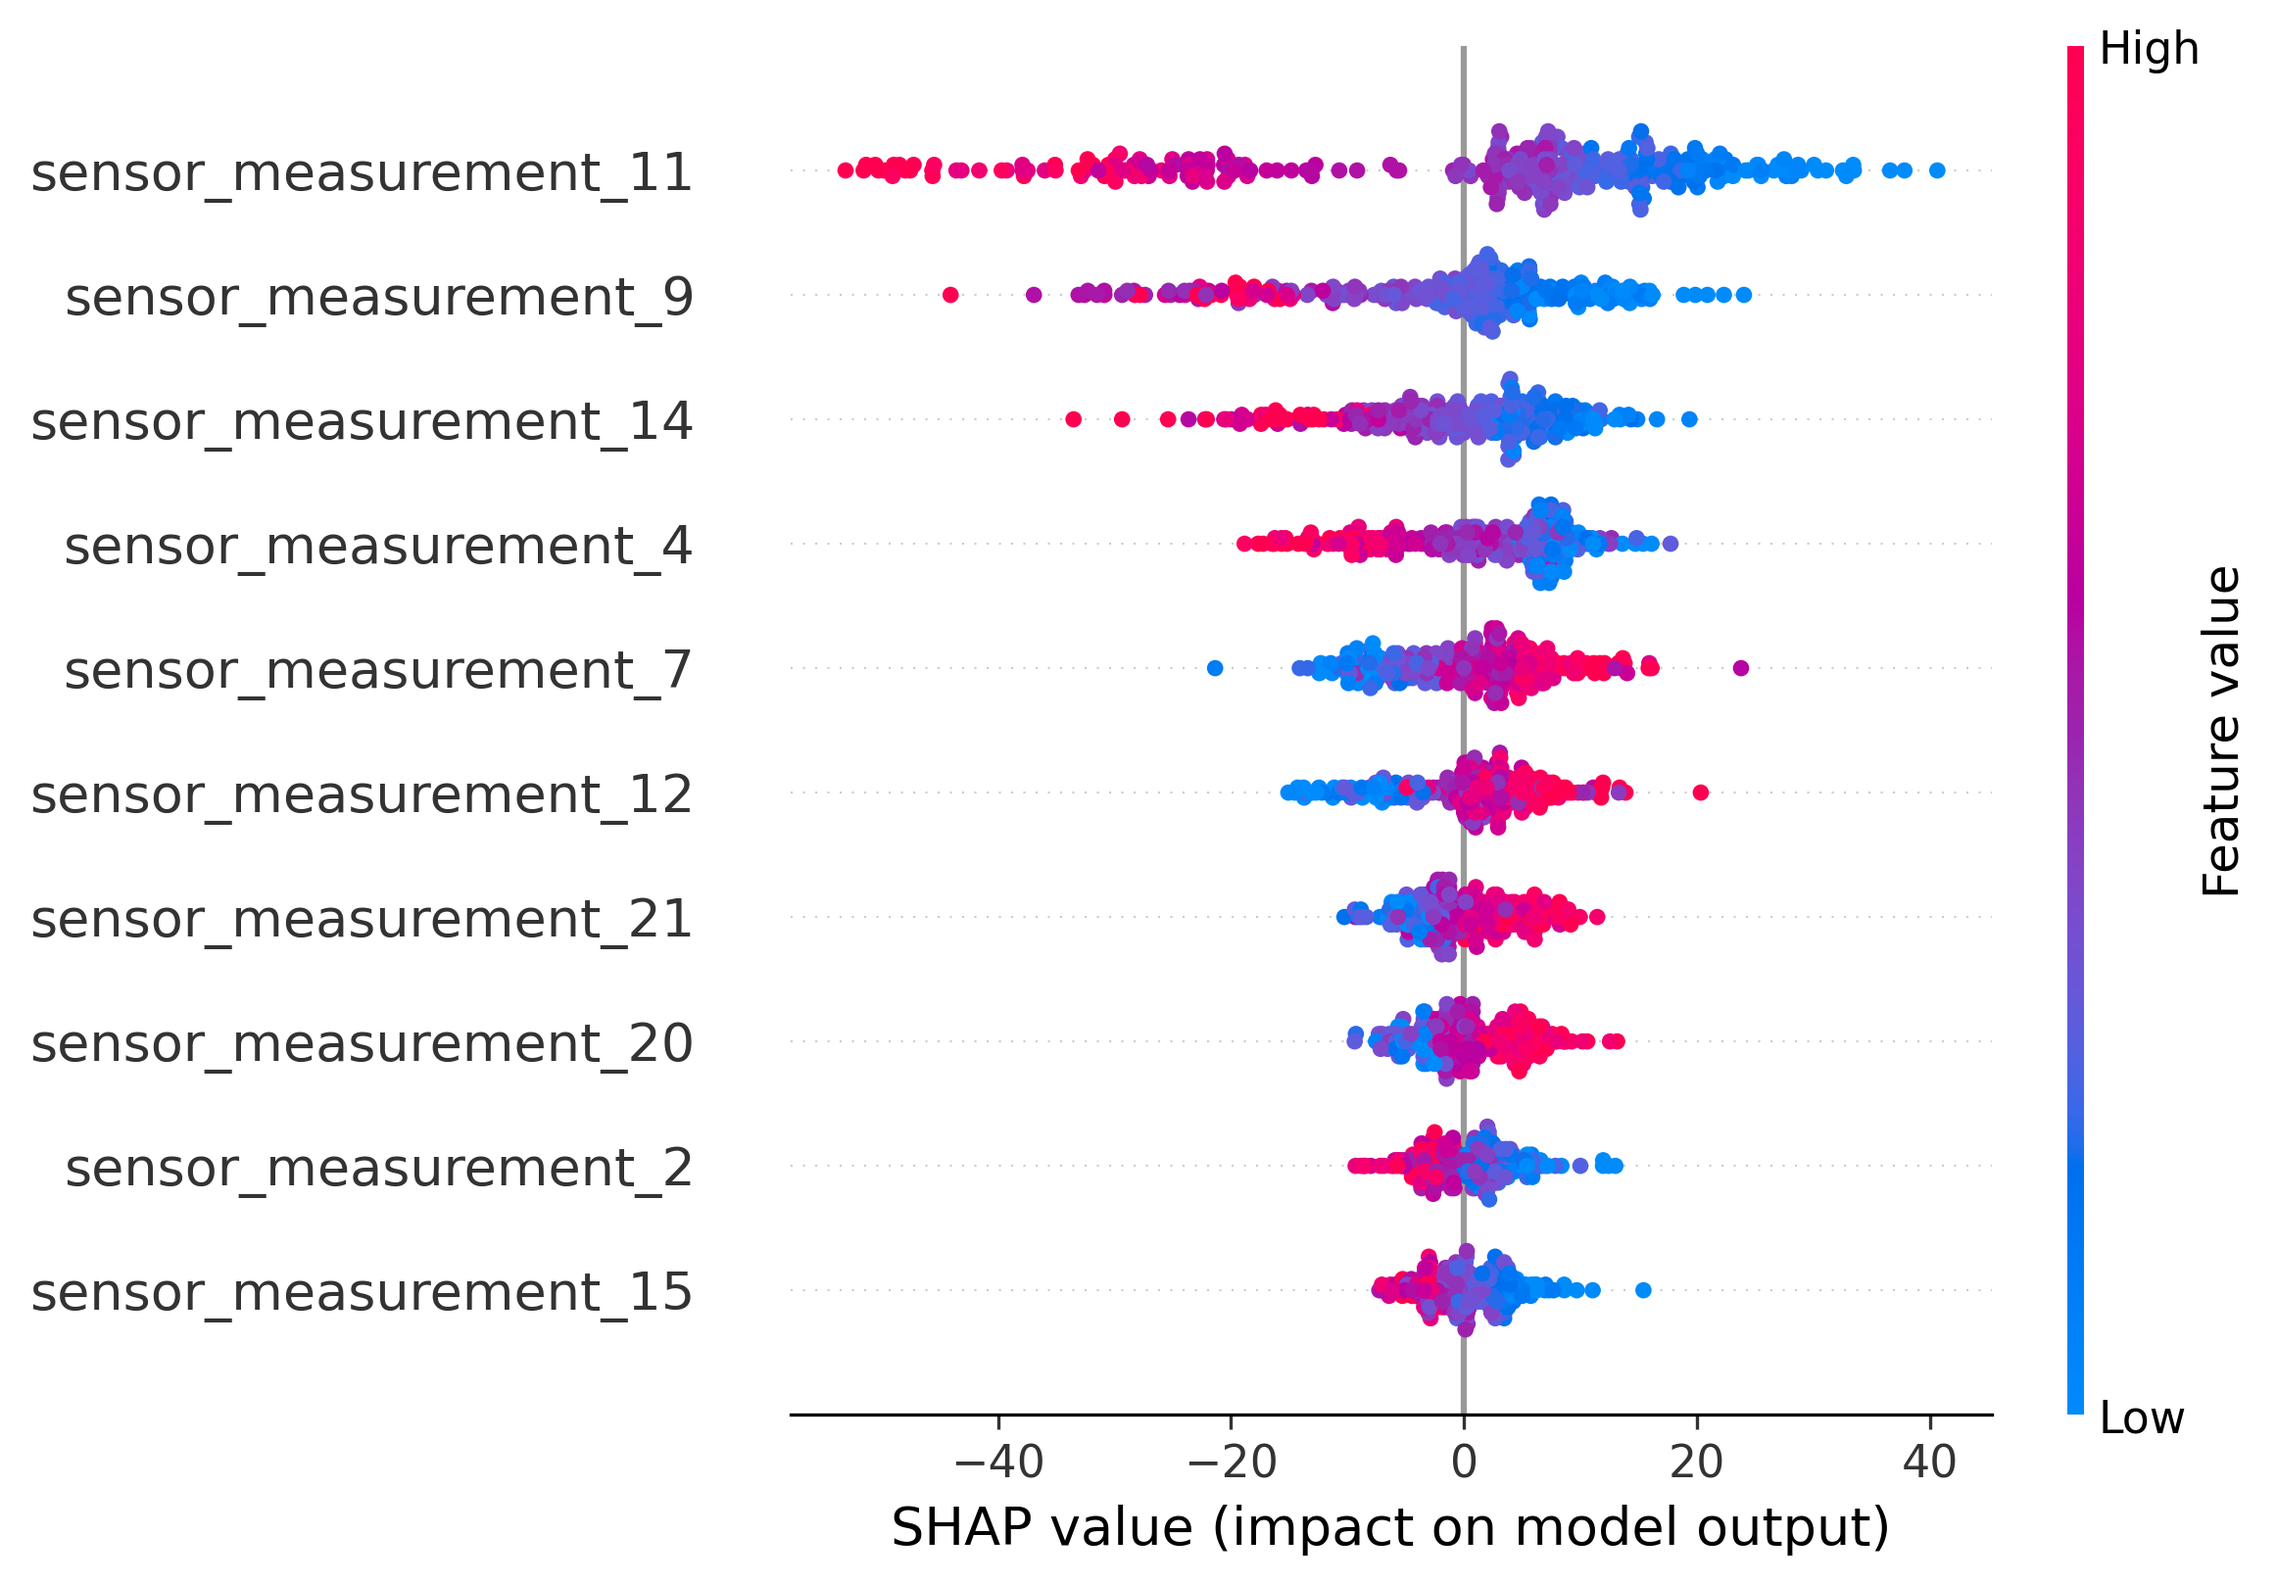
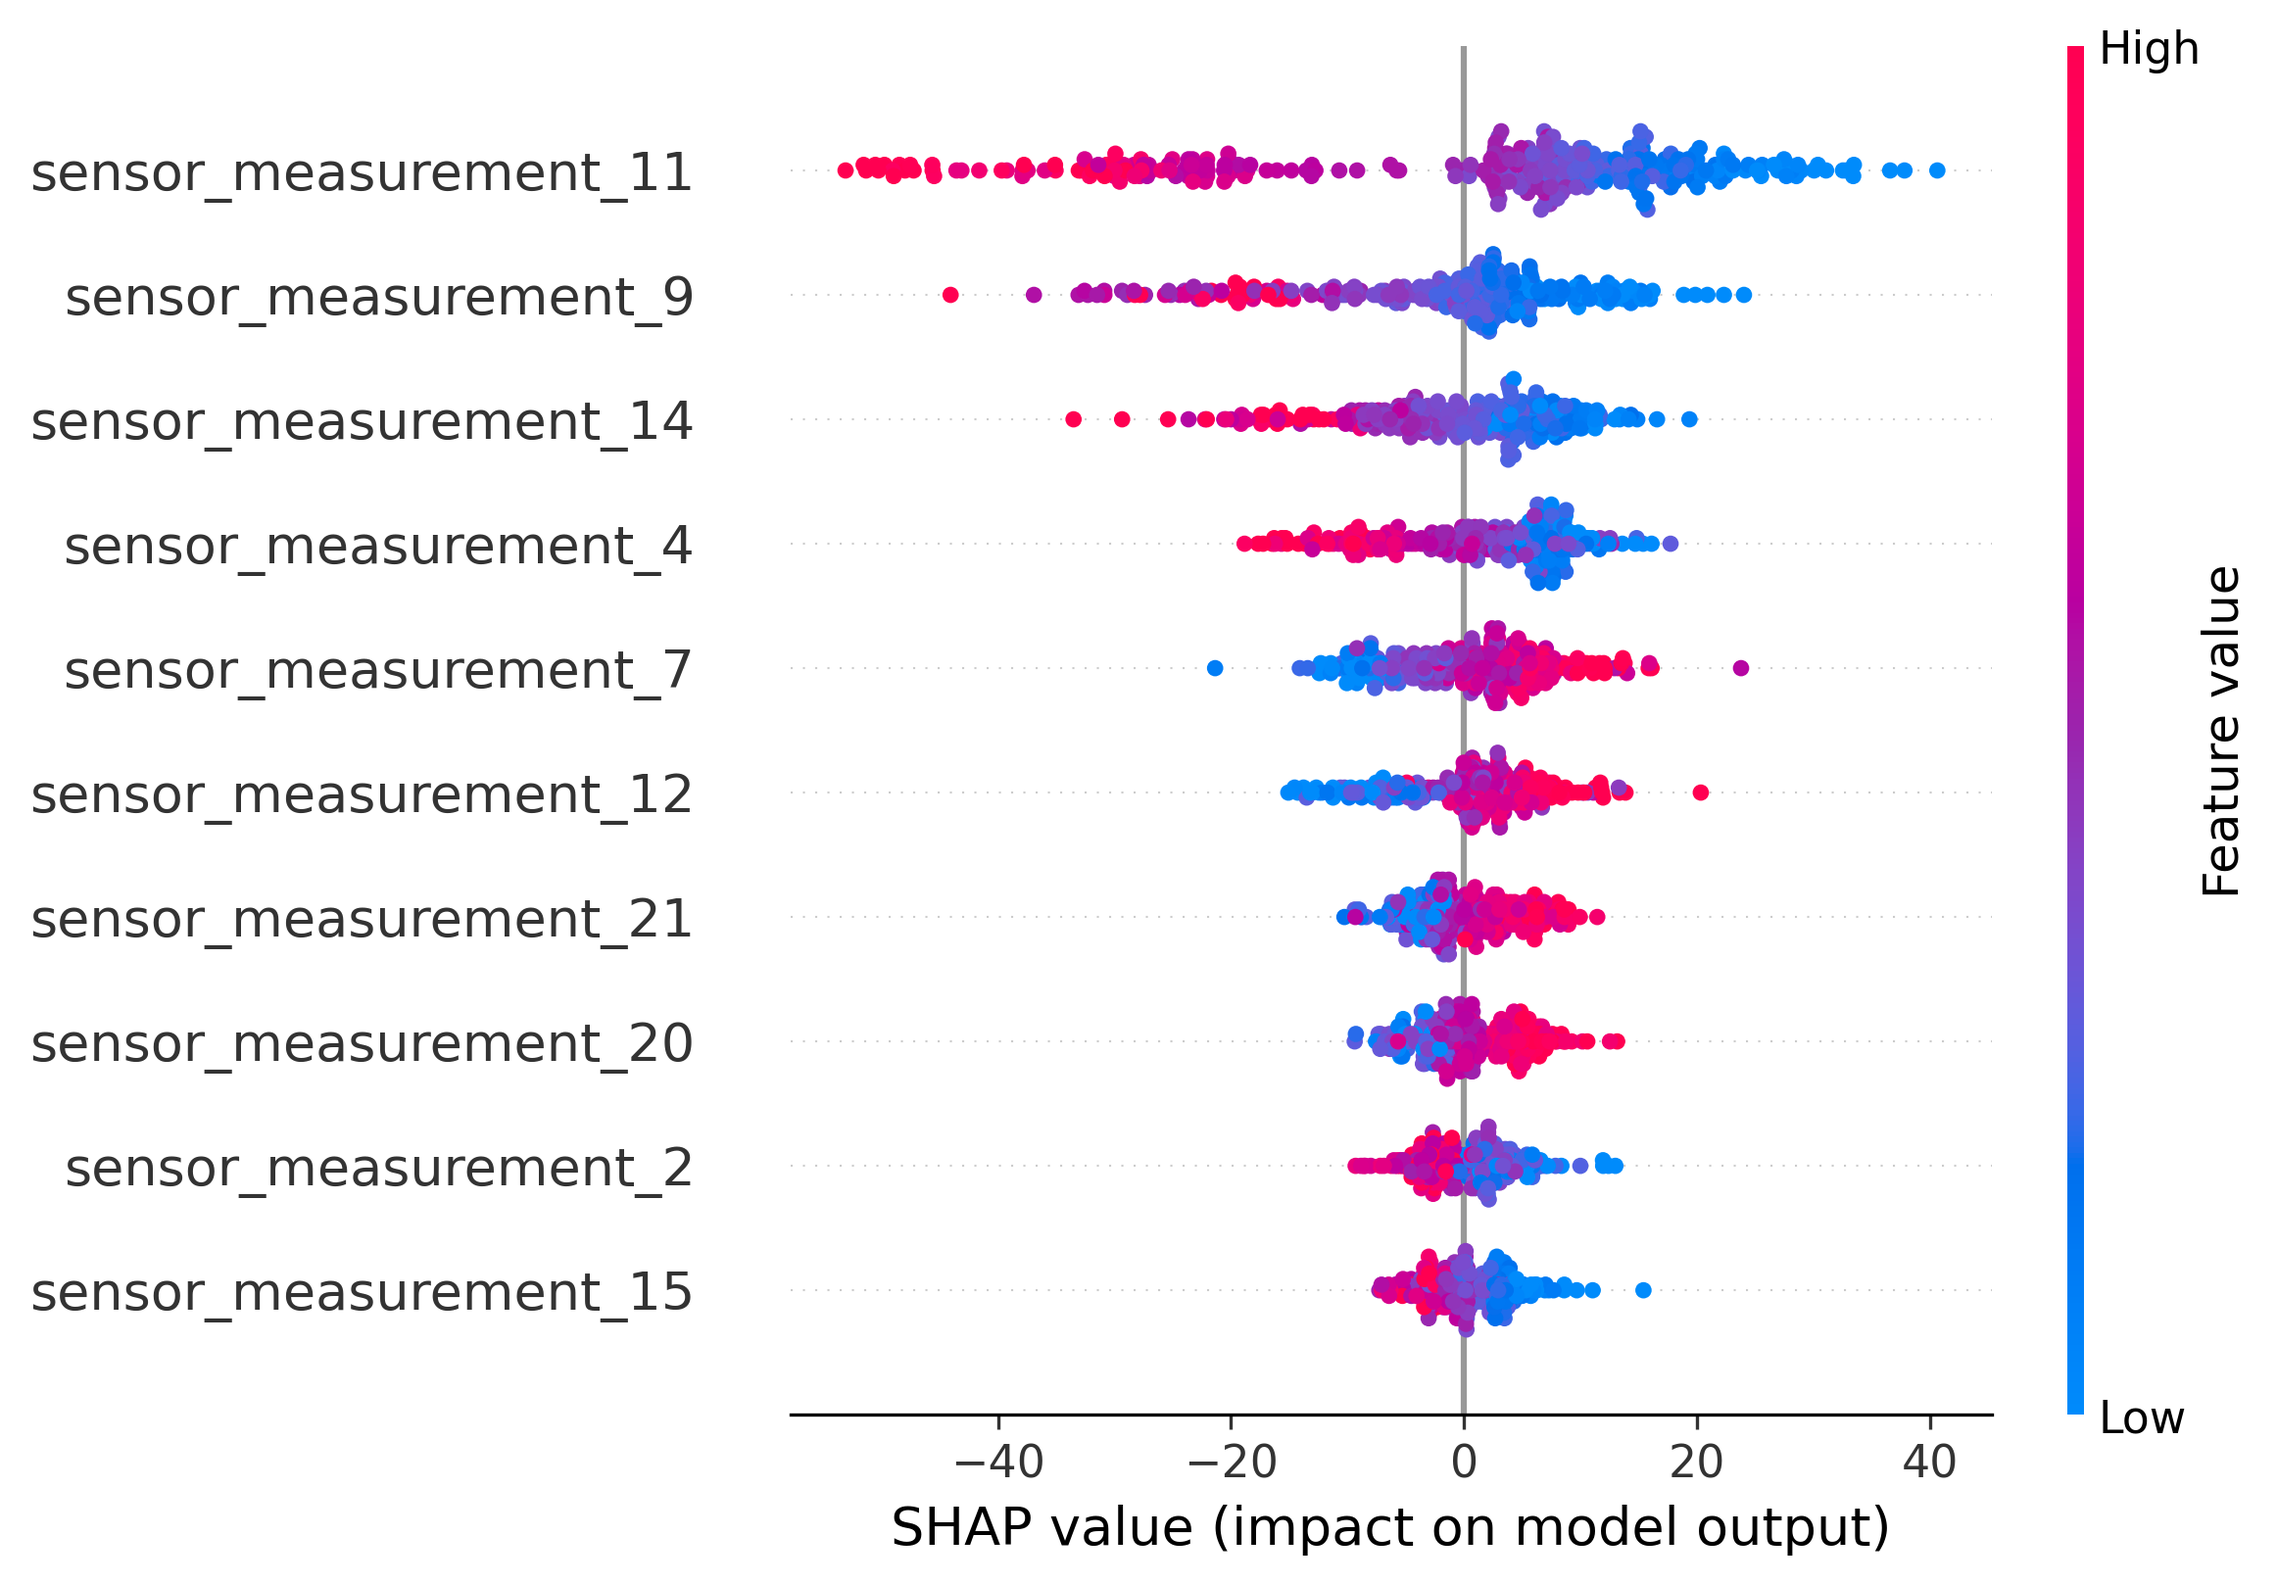
dene

diff --git a/reports/lime_explanation.html b/reports/lime_explanation.html
@@ -37179,25 +37179,25 @@
 /***/ })
 /******/ ]);
 //# sourceMappingURL=bundle.js.map </script></head><body>
-        <div class="lime top_div" id="top_divAHLWKLTABHVGAY1"></div>
+        <div class="lime top_div" id="top_div454FFHJMVHEUDH9"></div>
         
         <script>
-        var top_div = d3.select('#top_divAHLWKLTABHVGAY1').classed('lime top_div', true);
+        var top_div = d3.select('#top_div454FFHJMVHEUDH9').classed('lime top_div', true);
         
         
                     var pp_div = top_div.append('div')
                                         .classed('lime predicted_value', true);
                     var pp_svg = pp_div.append('svg').style('width', '100%');
-                    var pp = new lime.PredictedValue(pp_svg, 88.68951416015625, 27.097143173217773, 228.87863159179688);
+                    var pp = new lime.PredictedValue(pp_svg, 42.09728240966797, 27.097143173217773, 228.87863159179688);
                     
         var exp_div;
             var exp = new lime.Explanation(["negative", "positive"]);
         
             exp_div = top_div.append('div').classed('lime explanation', true);
-            exp.show([["sensor_measurement_7 > 0.73", 14.533593129167322], ["sensor_measurement_12 <= -0.62", -9.955833264925142], ["sensor_measurement_15 > 0.63", -9.22180135280285], ["sensor_measurement_2 <= -0.71", 9.208922379998457], ["-0.11 < sensor_measurement_11 <= 0.60", -8.384667819939793], ["-0.54 < sensor_measurement_14 <= -0.17", 7.9112512955525816], ["-0.54 < sensor_measurement_9 <= -0.21", 7.344700930998044], ["0.07 < sensor_measurement_20 <= 0.73", -1.7194474424117887], ["0.07 < sensor_measurement_21 <= 0.71", 0.7008999297924212], ["-0.09 < sensor_measurement_4 <= 0.63", -0.5747613432642016]], 1, exp_div);
+            exp.show([["sensor_measurement_9 > 0.18", -24.26742850208984], ["sensor_measurement_14 > 0.22", -21.613867356438952], ["sensor_measurement_15 <= -0.72", 8.551727564725477], ["sensor_measurement_2 <= -0.71", 7.194597251934605], ["sensor_measurement_20 <= -0.66", -6.321248503206072], ["-0.73 < sensor_measurement_4 <= -0.09", 5.018426520876269], ["-0.71 < sensor_measurement_11 <= -0.11", 4.619431817142599], ["-0.64 < sensor_measurement_7 <= 0.08", -4.427556056260373], ["sensor_measurement_12 > 0.73", 2.5861603481868563], ["0.07 < sensor_measurement_21 <= 0.71", -0.5450653163312781]], 1, exp_div);
             
         var raw_div = top_div.append('div');
-            exp.show_raw_tabular([["sensor_measurement_7", "3.06", 14.533593129167322], ["sensor_measurement_12", "-3.71", -9.955833264925142], ["sensor_measurement_15", "3.68", -9.22180135280285], ["sensor_measurement_2", "-1.36", 9.208922379998457], ["sensor_measurement_11", "0.00", -8.384667819939793], ["sensor_measurement_14", "-0.38", 7.9112512955525816], ["sensor_measurement_9", "-0.25", 7.344700930998044], ["sensor_measurement_20", "0.46", -1.7194474424117887], ["sensor_measurement_21", "0.09", 0.7008999297924212], ["sensor_measurement_4", "0.01", -0.5747613432642016]], 1, raw_div);
+            exp.show_raw_tabular([["sensor_measurement_9", "10.39", -24.26742850208984], ["sensor_measurement_14", "4.41", -21.613867356438952], ["sensor_measurement_15", "-2.85", 8.551727564725477], ["sensor_measurement_2", "-8.26", 7.194597251934605], ["sensor_measurement_20", "-9.10", -6.321248503206072], ["sensor_measurement_4", "-0.22", 5.018426520876269], ["sensor_measurement_11", "-0.15", 4.619431817142599], ["sensor_measurement_7", "-0.43", -4.427556056260373], ["sensor_measurement_12", "18.57", 2.5861603481868563], ["sensor_measurement_21", "0.09", -0.5450653163312781]], 1, raw_div);
         
         </script>
         </body></html>

diff --git a/app.py b/app.py
@@ -52,7 +52,7 @@ st.markdown("""
     /* Sidebar - modern beyaz */
     [data-testid="stSidebar"] {
         background: linear-gradient(180deg, #ffffff 0%, #f8fafc 100%);
-        border-right: 2px solid #e2e8f0;
+        border-right: 2px solid #e2e8f0;<
     }
     
     /* Sidebar yazıları - koyu gri, yüksek kontrast */
@@ -152,9 +152,9 @@ st.markdown("""
         font-weight: 600;
     }
     
-    /* Butonlar - modern mavi, profesyonel */
+    /* Butonlar - belirgin turuncu-kahve tonu, görünür ve profesyonel */
     .stButton > button {
-        background: linear-gradient(135deg, #3b82f6 0%, #2563eb 100%);
+        background: linear-gradient(135deg, #b45309 0%, #92400e 100%);
         color: #ffffff;
         border: none;
         border-radius: 8px;
@@ -162,13 +162,13 @@ st.markdown("""
         font-weight: 600;
         font-size: 0.95rem;
         transition: all 0.3s ease;
-        box-shadow: 0 2px 8px rgba(59, 130, 246, 0.3);
+        box-shadow: 0 2px 8px rgba(180, 83, 9, 0.35);
     }
     
     .stButton > button:hover {
-        background: linear-gradient(135deg, #2563eb 0%, #1d4ed8 100%);
+        background: linear-gradient(135deg, #92400e 0%, #78350f 100%);
         transform: translateY(-1px);
-        box-shadow: 0 4px 12px rgba(59, 130, 246, 0.4);
+        box-shadow: 0 4px 12px rgba(180, 83, 9, 0.5);
     }
     
     /* Buton - disabled durumu */
@@ -212,11 +212,11 @@ st.markdown("""
         font-weight: 500;
     }
     
-    /* Bilgi kutuları - okunabilir */
+    /* Bilgi kutuları - okunabilir, diğer renklerle uyumlu koyu gri tonu */
     .stInfo {
-        background-color: #e0f2fe;
-        border-left: 4px solid #0ea5e9;
-        color: #0c4a6e;
+        background-color: #f1f5f9;
+        border-left: 4px solid #475569;
+        color: #0f172a;
     }
     
     .stSuccess {

diff --git a/reporting.py b/reporting.py
@@ -175,7 +175,7 @@ def _format_excel_report(excel_path: str):
             
             # Başlık satırını biçimlendir
             header_font = Font(bold=True, color="FFFFFF")
-            header_fill = PatternFill(start_color="366092", end_color="366092", fill_type="solid")
+            header_fill = PatternFill(start_color="475569", end_color="475569", fill_type="solid")  # Koyu gri - modern ve profesyonel
             
             for cell in ws1[1]:
                 cell.font = header_font
